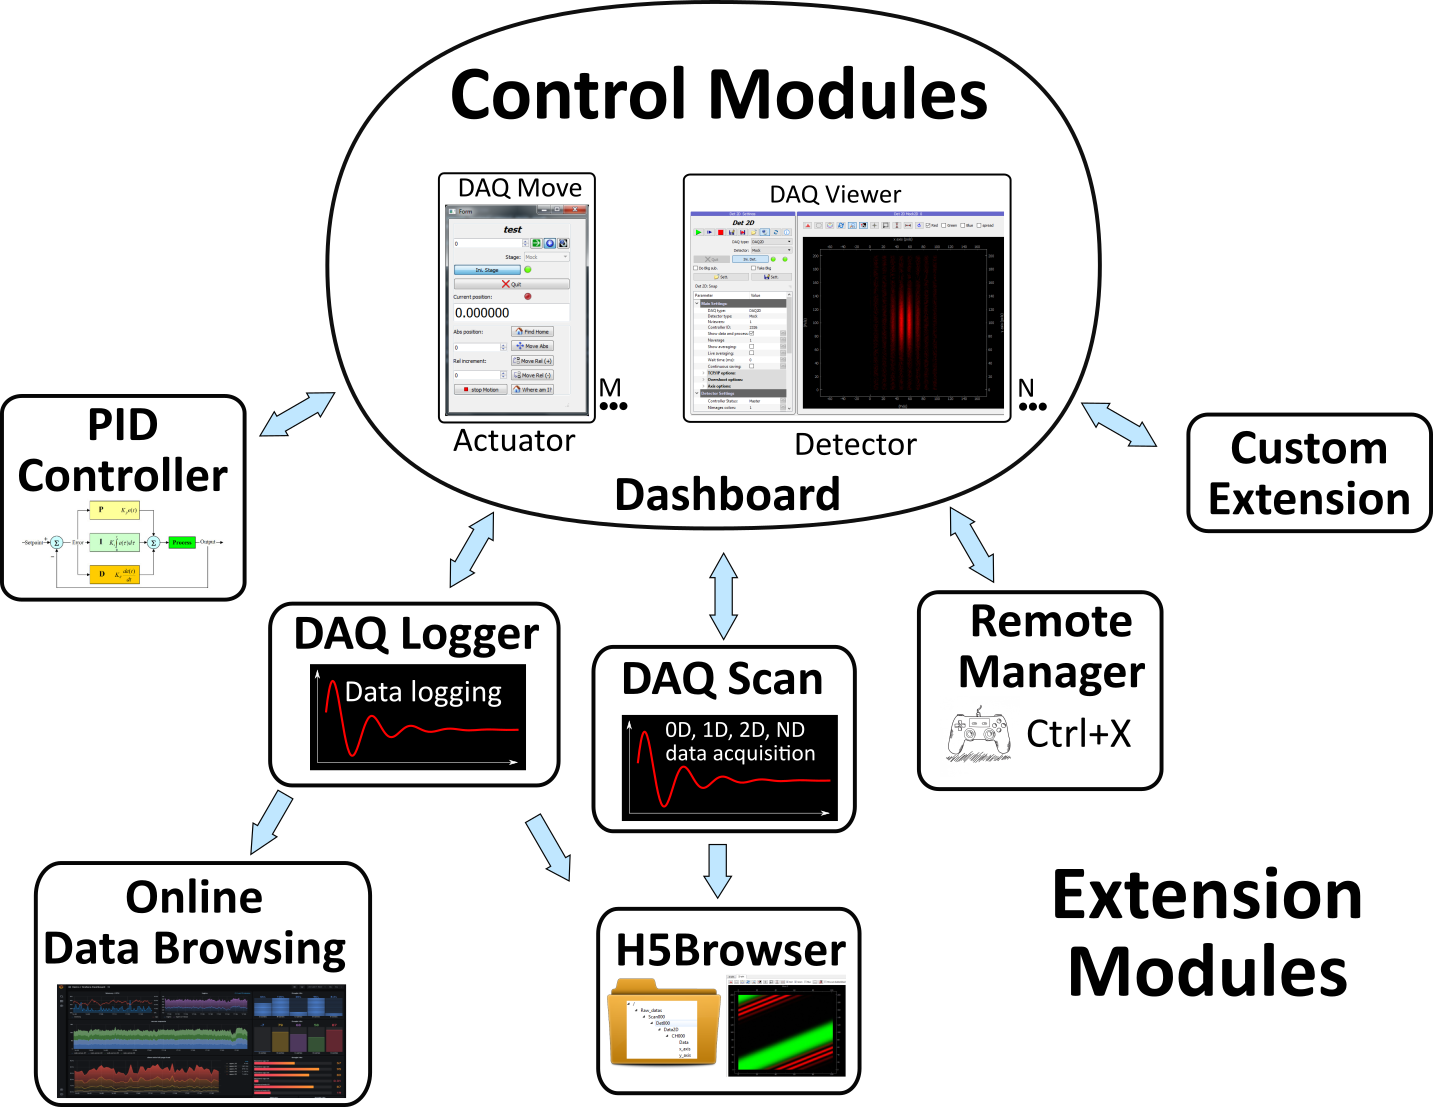
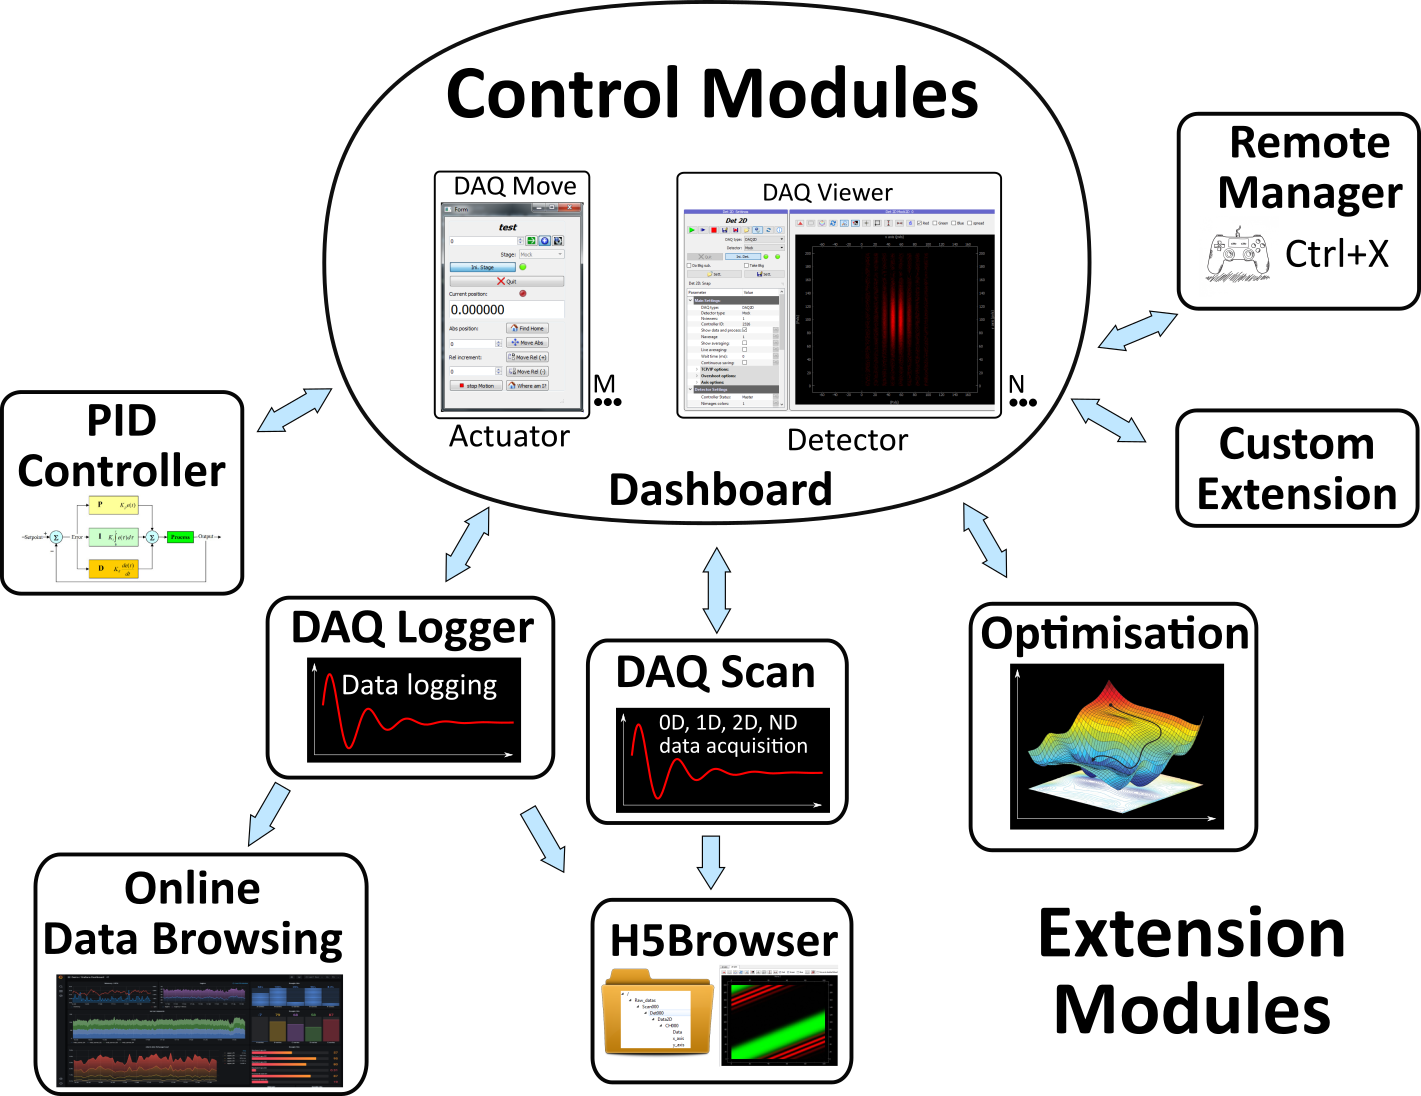
updating doc

diff --git a/docs/src/extensions_folder/bayesian.rst b/docs/src/extensions_folder/bayesian.rst
@@ -23,9 +23,11 @@ prove inefficient (you can miss the right points) and very lengthy in time or
 do a more intelligent phase space search by building a probabilistic surrogate model of our black box by using the
 history of tested parameters.
 
+Gaussian Processes:
+-------------------
 The surrogate model we use here is called Gaussian Process, GP. A Gaussian process defines a distribution
-over functions, where any finite set of function values follows a multivariate Gaussian distribution.
-In the context of Bayesian optimization, a GP is used to model the unknown objective function,
+of functions potentially fitting the data. This finite set of function values follows a multivariate Gaussian
+distribution. In the context of Bayesian optimization, a GP is used to model the unknown objective function,
 and it provides a posterior distribution over the function values given the observed data.
 
 .. figure:: bayesian_data/GP.png
@@ -34,6 +36,20 @@ and it provides a posterior distribution over the function values given the obse
    Illustration of Gaussian process regression in one dimension. Gaussian processes are specified by an
    estimation function and the uncertainty function evolving constantly as more and more *points* are being tested.
    `Source <https://www.researchgate.net/publication/327613136_Bayesian_optimization_for_likelihood-free_cosmological_inference>`__
+
+From this distribution, a mean value (`µ`) and standard deviation (`std`) of the function distribution is computed. These are then used
+to model our black box system. To go one step beyond, the algorithm should predict which parameters should be probed
+next to optimize the mean and std. For this we'll construct a simple function based on the probability output of the GP:
+the acquisition function.
+
+.. note::
+  GPs are themselves based on various kernels (or covariance matrix or *function generator*). Which kernel to use
+  may depend on your particular problem, even if the standard ones (as provided in PyMoDAQ should just work fine).
+  If you want to know more on this just browse  `here <https://www.cs.toronto.edu/~duvenaud/cookbook/>`__
+
+Acquisition function:
+---------------------
+
 
 Usage
 +++++

diff --git a/docs/src/user_folder/extensions.rst b/docs/src/user_folder/extensions.rst
@@ -13,9 +13,10 @@ The DashBoard module can load extensions to perform dedicated tasks, such as aut
    /extensions_folder/daq_scan/daq_scan
    /extensions_folder/daq_logger
    /extensions_folder/pid_module
+   /extensions_folder/bayesian
    /extensions_folder/h5browser
    /extensions_folder/console
-   /extensions_folder/bayesian
+
 
 
 
